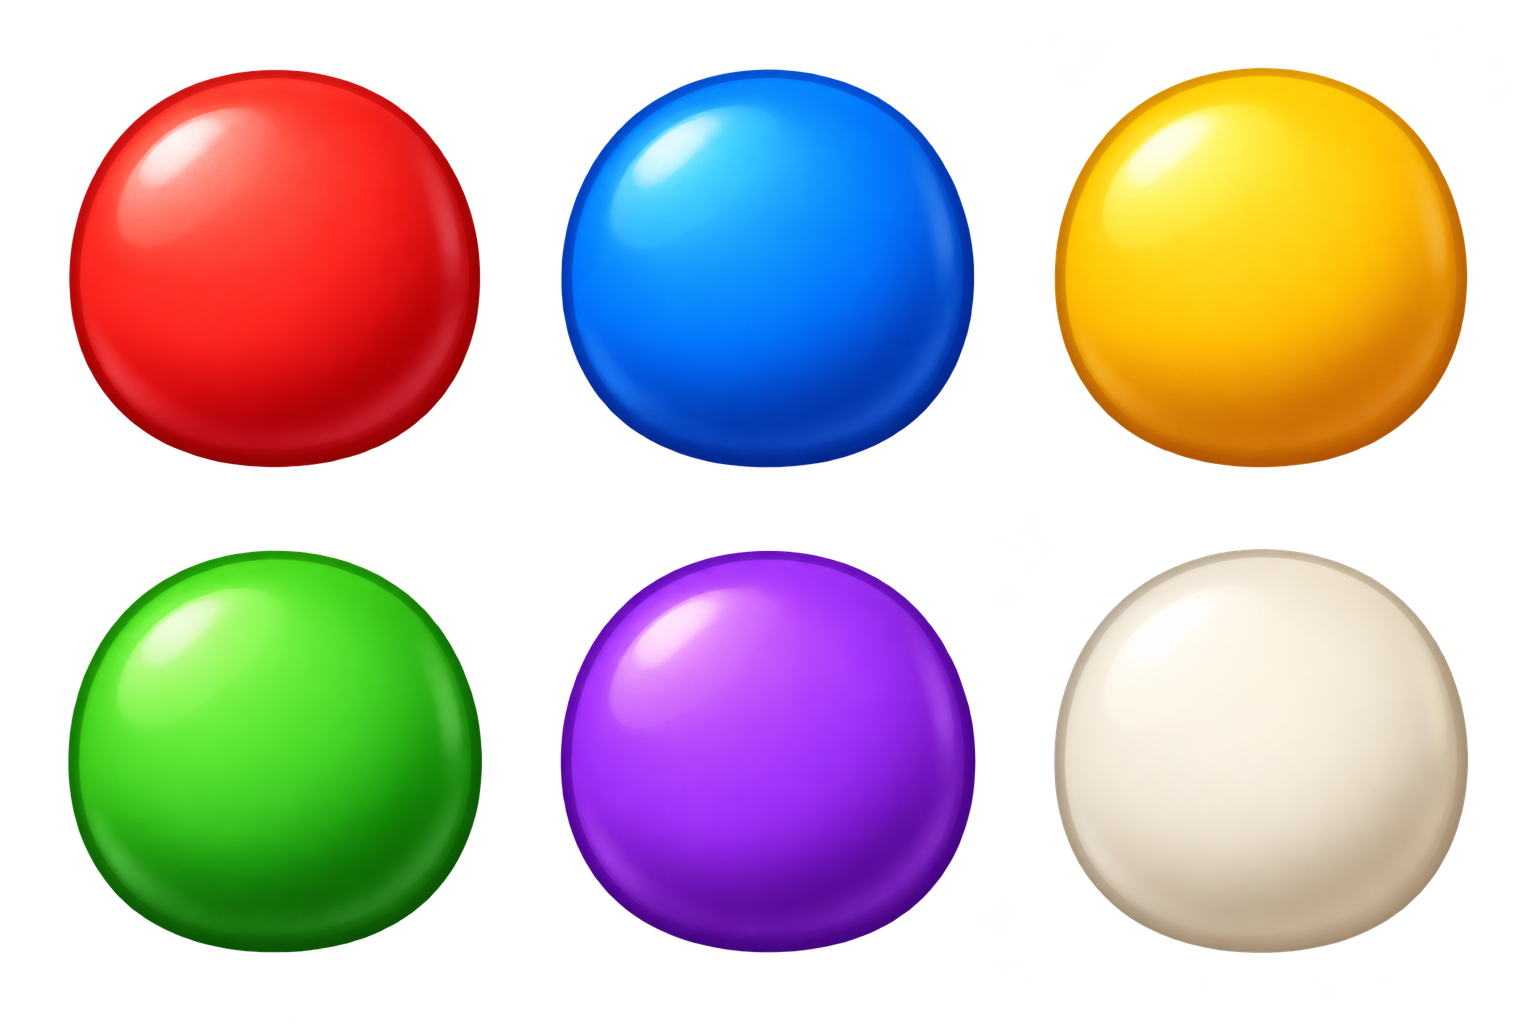
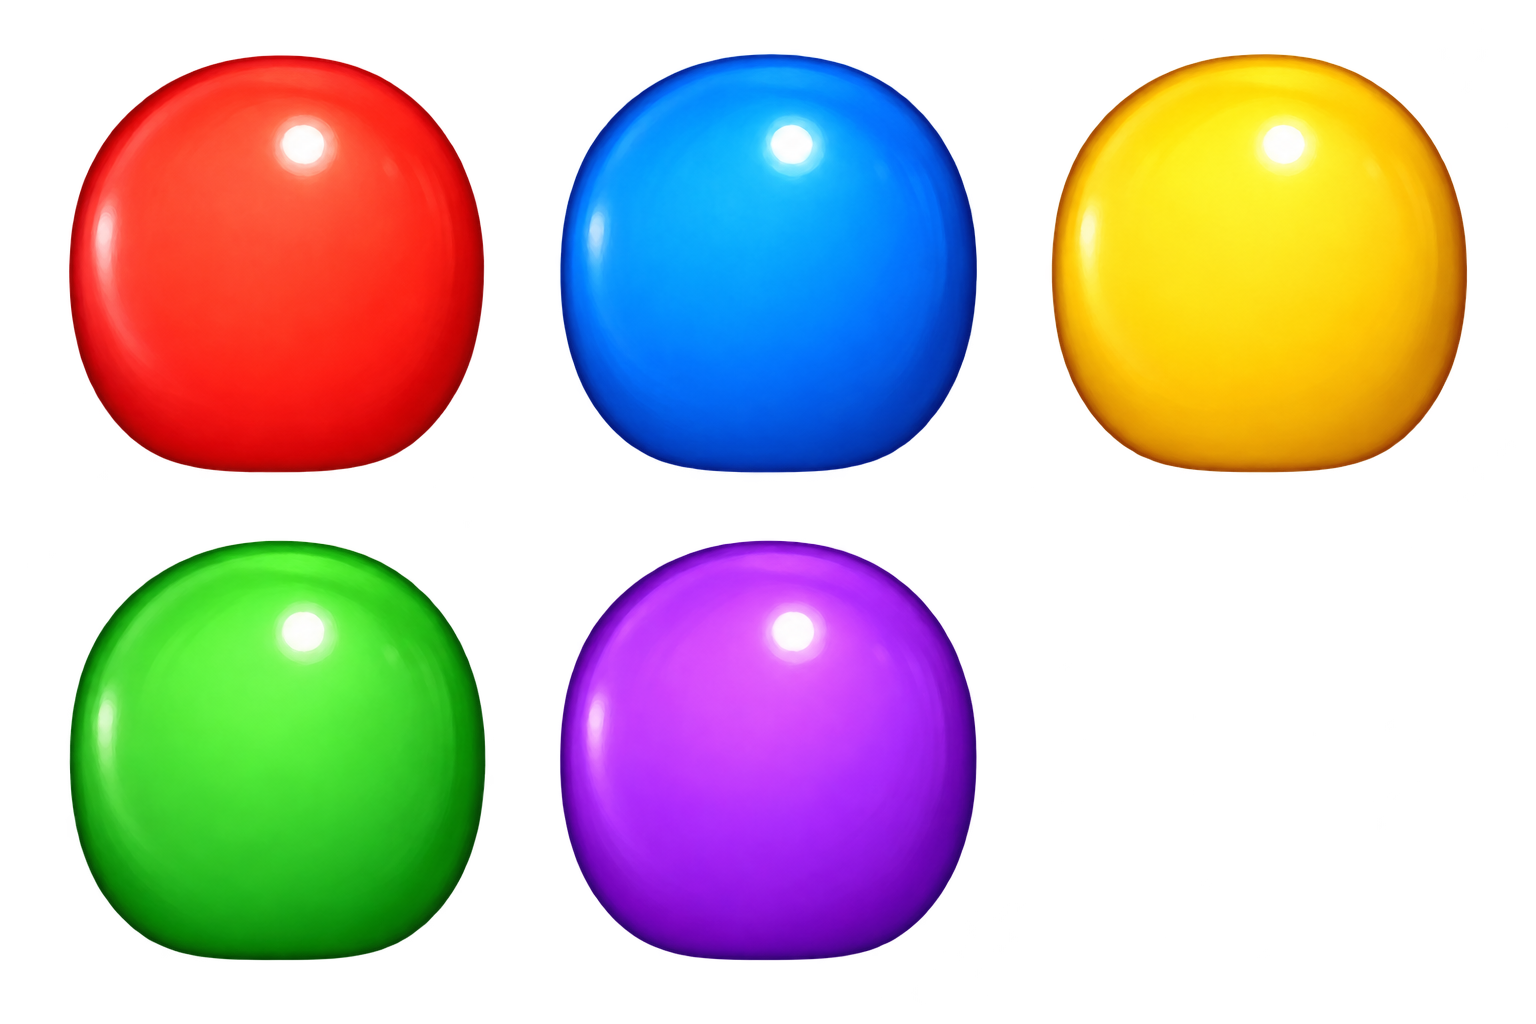
fix(art): restore original-led five-color ball material

diff --git a/reports/first-level/ball-material.md b/reports/first-level/ball-material.md
@@ -1,0 +1,70 @@
+# First-level original-led ball material candidate
+
+Base: `f4b4c30`, 2026-10-22. Asset-only follow-up: five-color RGBA atlas,
+its crop regions and manifest. No production script, level, rule, footprint,
+board-center, route, timing, reward or input change. No merge or deployment.
+
+## Asset and comparison
+
+The built-in image tool used the approved design's native five-color samples,
+not the previously incorrect production atlas, as its visual source. A first
+output invented glass-like bottom ovals and was rejected. One targeted edit
+removed those ovals while preserving the outer bodies and small upper-center
+highlights. The selected RGBA file is copied byte-for-byte: no manual paint,
+alpha reconstruction, color multiplication or per-role image conversion.
+
+Only the latest candidate atlas is present in the working repository. Rejected
+images and large offline node snapshots remain outside the repository. The
+unused white crop is removed; this first-level palette has exactly five colors.
+Each actual alpha128 body has eight source pixels of padding in its region.
+At the unchanged 33.5×35.75 world draw size, visible bodies are approximately
+32.26×34.43 logical units. Board/cargo/loading/hopper/flight retain one source
+and one shared world-size contract, including the preceding receiving-grip fix.
+
+New atlas: 1536×1024 RGBA, 52.74% fully transparent pixels, SHA-256
[1 lines of base64/hex data omitted]
+Manifest hash, all five crops and their eight-pixel padding were checked.
+
+Two independent visual reads of the local offline original/candidate board
+comparison found this closer than the old material: small highlights are now
+upper-center rather than a broad diagonal left reflection, the lower body is
+fuller, the bottom rim is reduced, and blue/yellow/purple are closer to the
+approved palette. This is **generated restoration, not exact pixel extraction,
+Godot rendering or 1:1 approval**.
+
+Remaining specific differences:
+- Lower-body width at90% height is roughly73–75%, versus the reference's
+  uncertain79–86%; the bottom also looks somewhat flatter/more regular.
+- Highlight diameter is closer, but the white core is hard and slightly right
+  of the reference; the halo is tighter.
+- Red lower-body shading remains too dark. Green is somewhat fluorescent;
+  purple still lacks some of the reference's red-pink softness.
+- Bright terrain at four-ball junctions differs from the reference's contact
+  shading. Do not simply inflate the balls to hide that material/scene issue.
+
+The approximate reference measurements use a roughly30-pixel, lossy JPEG
+object. They are comparison guides, not invented pixel-exact alpha or acceptance
+tolerances.
+
+## Finite checks
+
+Godot4.6.3 headless, first-level isolated profile, after reimporting the new atlas:
+- `test_first_level_art_batch2.gd`: **7,612 checks**, no failures.
+- `test_first_level_loading.gd`: **79 checks**, no failures.
+- `test_first_level_previews.gd`: **1,705 checks**, no failures; expected controlled
+  missing-preview warning and ObjectDB shutdown warning remain recorded.
+
+Art/loading logs have no script/assertion/shutdown warning. The same bounded
+world-chain, .80-second handoff, real fire/hit, pause/x2 and terminal-stop checks
+were reused. No full-route test or gameplay/economy calibration was repeated.
+These counts prove wiring and geometry, not the material's rendered appearance.
+
+## Native acceptance still required
+
+Inspect this exact candidate in real GL: small white points and red lower body
+at phone proportion, four-ball contact gaps, and the same material through
+pickup/carry/loading/flight. Check that the preexisting cannon occlusion and
+hand-grip warp still look continuous at x1/x2. Prior b8 real victory and f4
+geometry assertions do not certify these new pixels. Natural-play balance,
+physical phone, audio, complete original-art fidelity and user confirmation
+remain open. Keep the visual Issues open.
